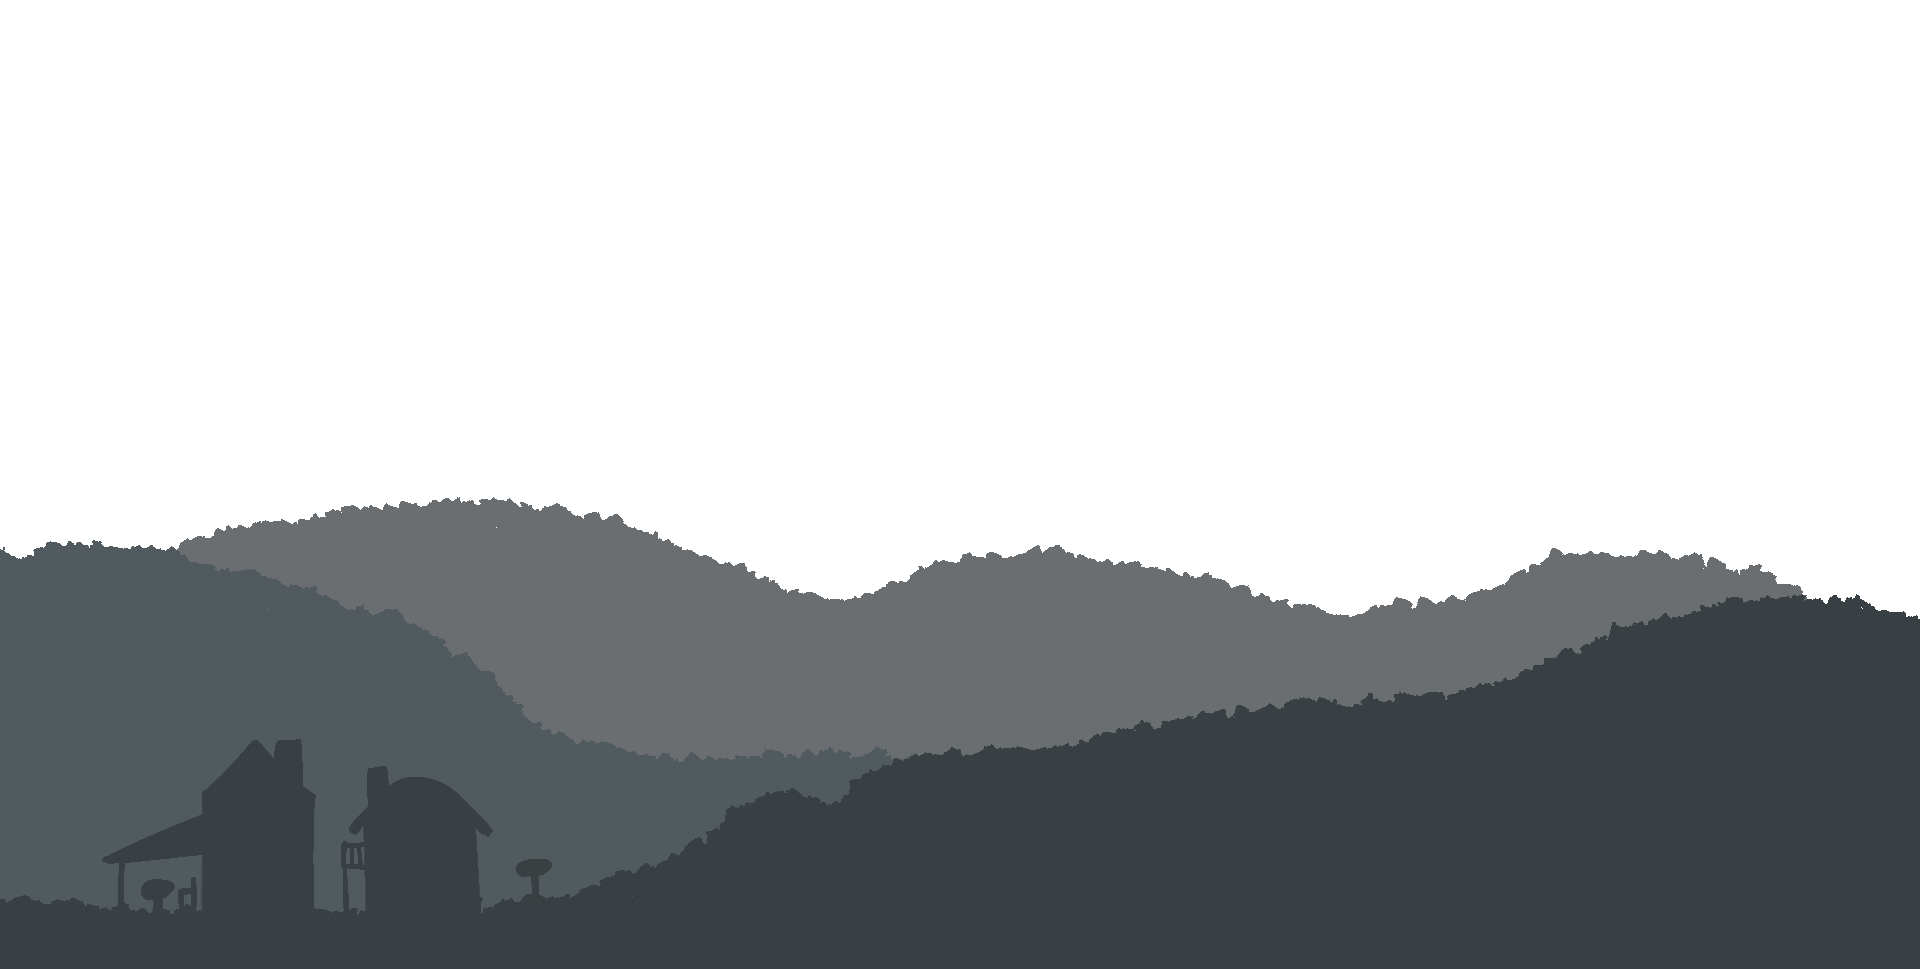
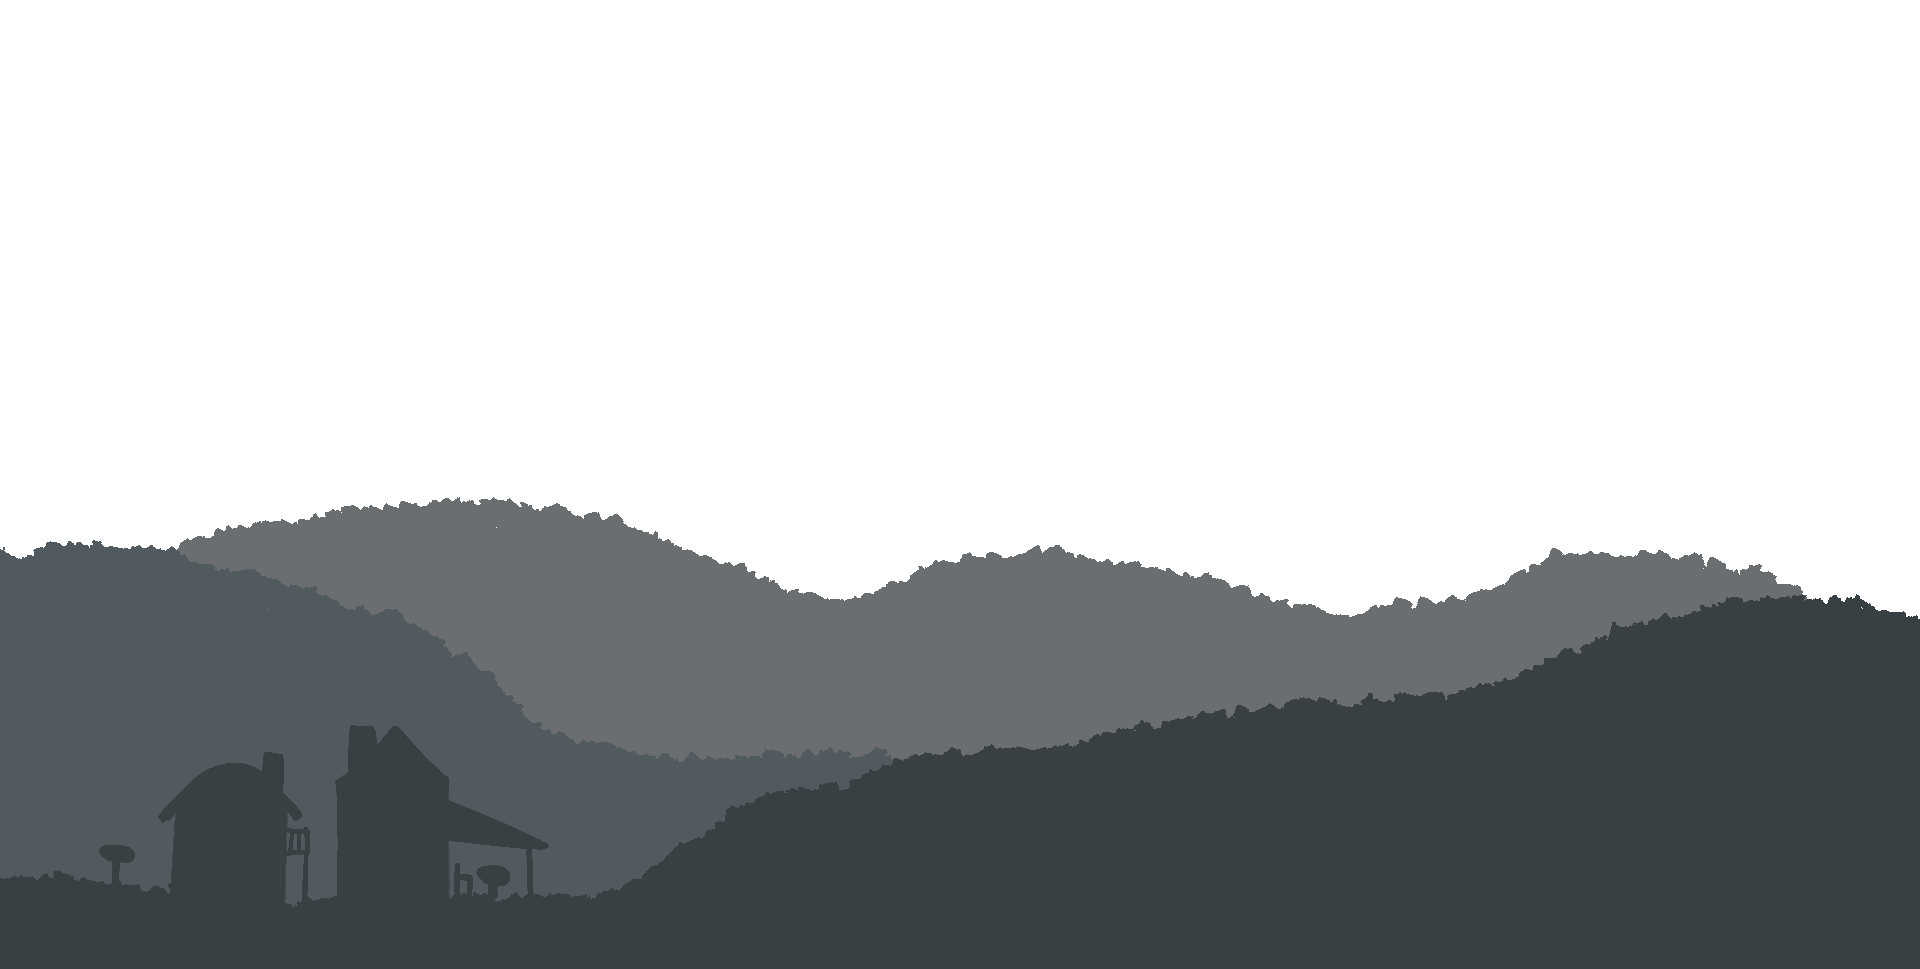
nice

Changed region(s): [[0.0, 0.743, 0.25, 0.9598], [0.2188, 0.8359, 0.3438, 0.9288], [0.4062, 0.805, 0.4375, 0.8359]]

diff --git a/styles.css b/styles.css
@@ -70,7 +70,7 @@ body {
 }
 
 .two {
-  background-image: url("img/bg/slide-duo.png");
+  background-image: url("img/bg/slide-2.png");
   background-repeat:no-repeat;
   display: flex;
   flex-direction: row;
@@ -87,7 +87,7 @@ body {
 }
 
 .four {
-  background-image: url("img/bg/slide-bridge.png");
+  background-image: url("img/bg/slide-4.png");
   display: flex;
   flex-direction: row;
   align-items: center;
@@ -95,7 +95,7 @@ body {
 }
 
 .five {
-  background-image: url("img/bg/background.png");
+  background-image: url("img/bg/slide-5.png");
   display: flex;
   flex-direction: row;
   align-items: center;
@@ -195,7 +195,7 @@ ul{
 .time{
   font-size: 1.9vw;
   max-height: 55vw;
-  max-width: 35vw;
+  max-width: 38vw;
   padding: 5px;
   background-color: #7c868b;
   border-radius: 32px;
@@ -227,6 +227,7 @@ ul{
 }
 .card:nth-child(even) {
   padding: 30px 30px 30px 0;
+  margin-top: -1px;
 }
 /* Global ::before */
 .card::before {
@@ -311,7 +312,7 @@ ul{
 
 /* text right if the card is even  */
 .card:nth-child(even) > .info > .title {
-  text-align: right;
+  text-align: center;
 }
 
 /* setting dot to the left if the card is odd */
@@ -411,7 +412,7 @@ ul{
   letter-spacing: 1.5px;
 }
 
-.fragen{
+.leistungen{
   font-size: 2.1vw;
   max-height: 600px;
   max-width: 600px;
@@ -419,8 +420,11 @@ ul{
   background-color: #7c868b;
   border-radius: 32px;
   border: 5px solid #000;
+  text-align: left;
+  letter-spacing: 1.8px;
+}
+.leistungen h1{
   text-align: center;
-  letter-spacing: 1.5px;
 }
 /*******************************************************************/
 /*KENNTNISSE END                                                   */
@@ -435,7 +439,7 @@ ul{
     position: absolute;
     animation: rotation 10s infinite linear; 
     left: 0.5vw;
-    top: -1.1vw;
+    top: -1.9vw;
     
 }
 @keyframes rotation {
@@ -501,8 +505,9 @@ ul{
 @media screen and (min-width:1400px) and (max-width:1700px) {
   /* Bei jedem größeren Monitor kommen neue Regeln hinzu */
   .slide {
-    width: 1900px;
+    width: 1920px;
     height: 100vh;
+    margin-left: -5px;
   }
   .outer-wrapper {
     width: 100vh;
@@ -512,15 +517,18 @@ ul{
     overflow-y: scroll;
     overflow-x: hidden;
     position: absolute;
-  }
+  } 
   .wrapper {
     display: flex;
     flex-direction: row;
-    width: 9600px;
+    width: 9550px;
     transform: rotate(90deg) translateY(-100vh);
     transform-origin: top left;
   }
 
+  .time{
+    margin-bottom: -1px;
+  }
 
 
   #wavy-heading {
@@ -537,12 +545,14 @@ ul{
       font-size: 4.4vw;
   }
   #windmill {
-    top: -1.6vw;
+    top: -1.8vw;
   }
   #kite{
     left: 17.98%;
   }
   }
   @media screen and (max-width: 1399px) {
-
+    *{
+      display: none;
+    }
   }

diff --git a/index.html b/index.html
@@ -7,6 +7,7 @@
     <link rel="preconnect" href="https://fonts.googleapis.com">
     <link rel="preconnect" href="https://fonts.gstatic.com" crossorigin>
     <link href="https://fonts.googleapis.com/css2?family=Staatliches&display=swap" rel="stylesheet">
+    <link rel="icon" type="imgae/png" href="img\favicon.png">
     <script src="https://cdn.jsdelivr.net/npm/chart.js"></script>
     <meta content='width=device-width, initial-scale=1.0, maximum-scale=1.0, user-scalable=0' name='viewport' />
 
@@ -177,6 +178,20 @@
                 </div>
             </section>
             <section class="slide five">   
+                <div class="leistungen">
+                    <h1 id="wavy-heading">
+                        <span style="--i:69">L</span><span style="--i:70">E</span><span style="--i:71">I</span><span
+                            style="--i:72">S</span><span style="--i:73">T</span><span style="--i:74">U</span><span style="--i:75">N</span><span style="--i:76">G</span><span style="--i:77">E</span><span style="--i:78">N</span>
+                    </h1>   
+                    <div class="cards">
+                        <ul>
+                            <li>&nbsp;1. LJ - Sehr guter Erfolg</li>
+                            <li>2. LJ - Guter Erfolg :'(</li>
+                            <li>3. LJ - Sehr guter Erfolg</li>
+                            <li>&nbsp;LLW - Ausgezeichneter Erfolg</li>
+                        </ul>
+                    </div>
+                </div>       
                 <div class="zukunft">
                     <h1 id="wavy-heading">
                         <span style="--i:69">Z</span><span style="--i:70">U</span><span style="--i:71">K</span><span
@@ -189,14 +204,6 @@
                             <li>3. Arbeiten</li>
                         </ul>
                     </div>
-                </div>
-
-                <div class="fragen">
-             
-                    <h1 id="wavy-heading">
-                        <span style="--i:73">F</span><span style="--i:74">R</span><span style="--i:75">A</span><span
-                            style="--i:76">G</span><span style="--i:77">E</span><span style="--i:78">N</span><span style="--i:79">?</span>                        
-                    </h1>
                 </div>
             </section>
 
